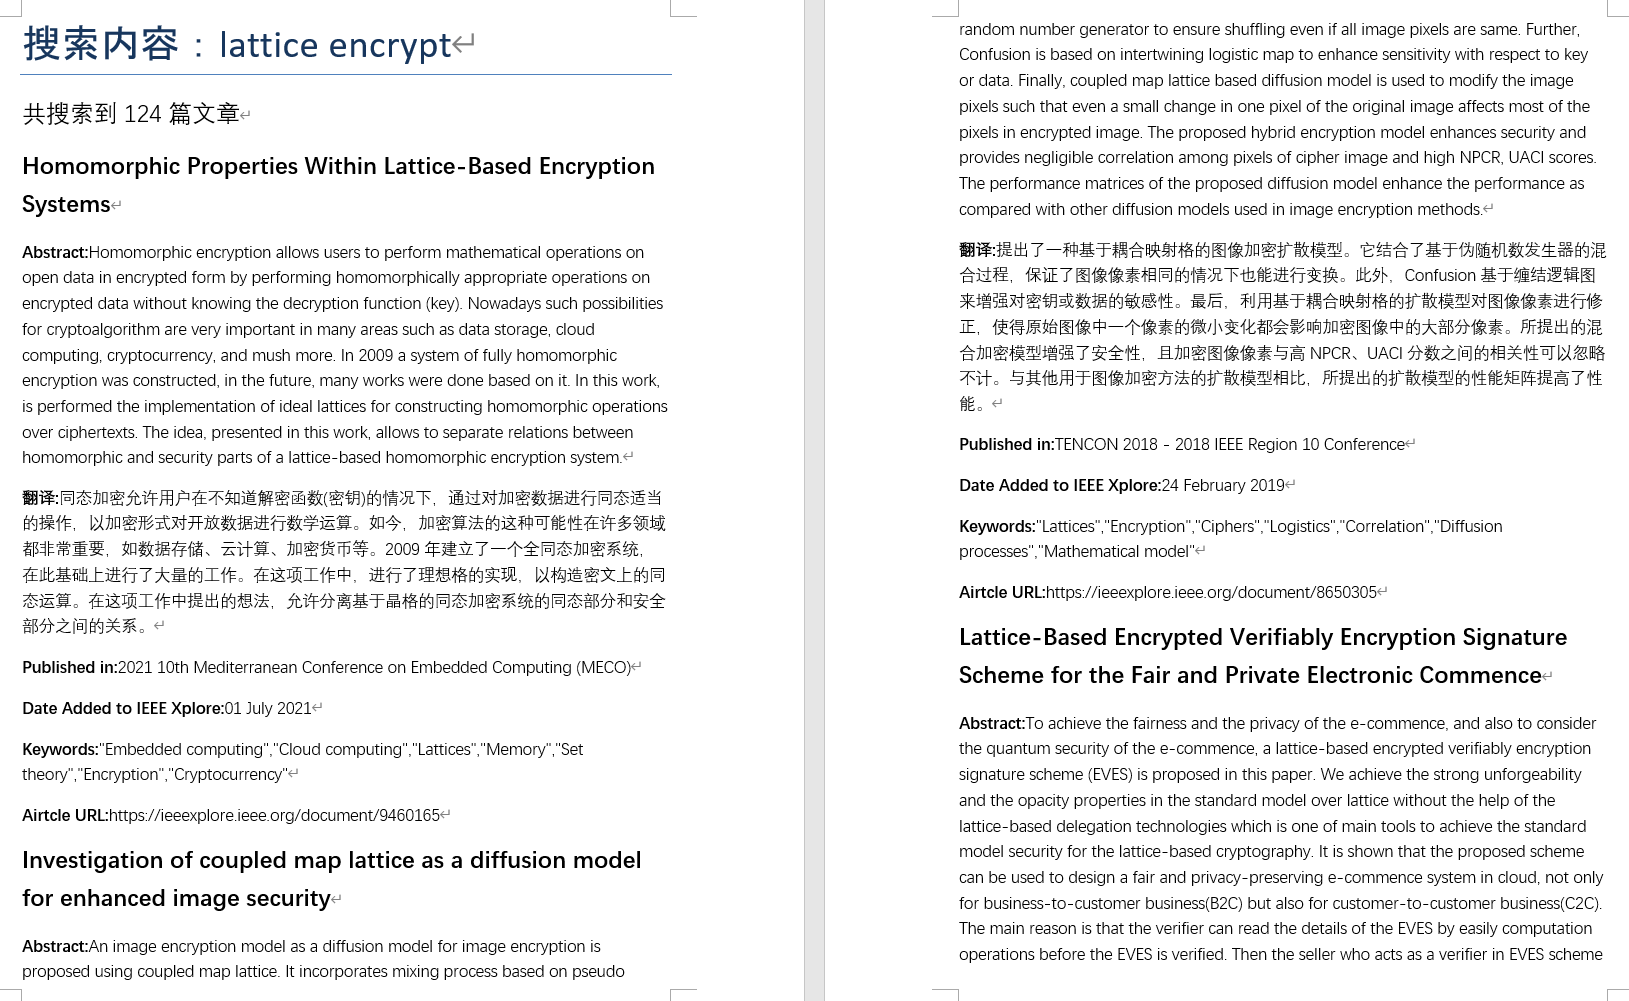
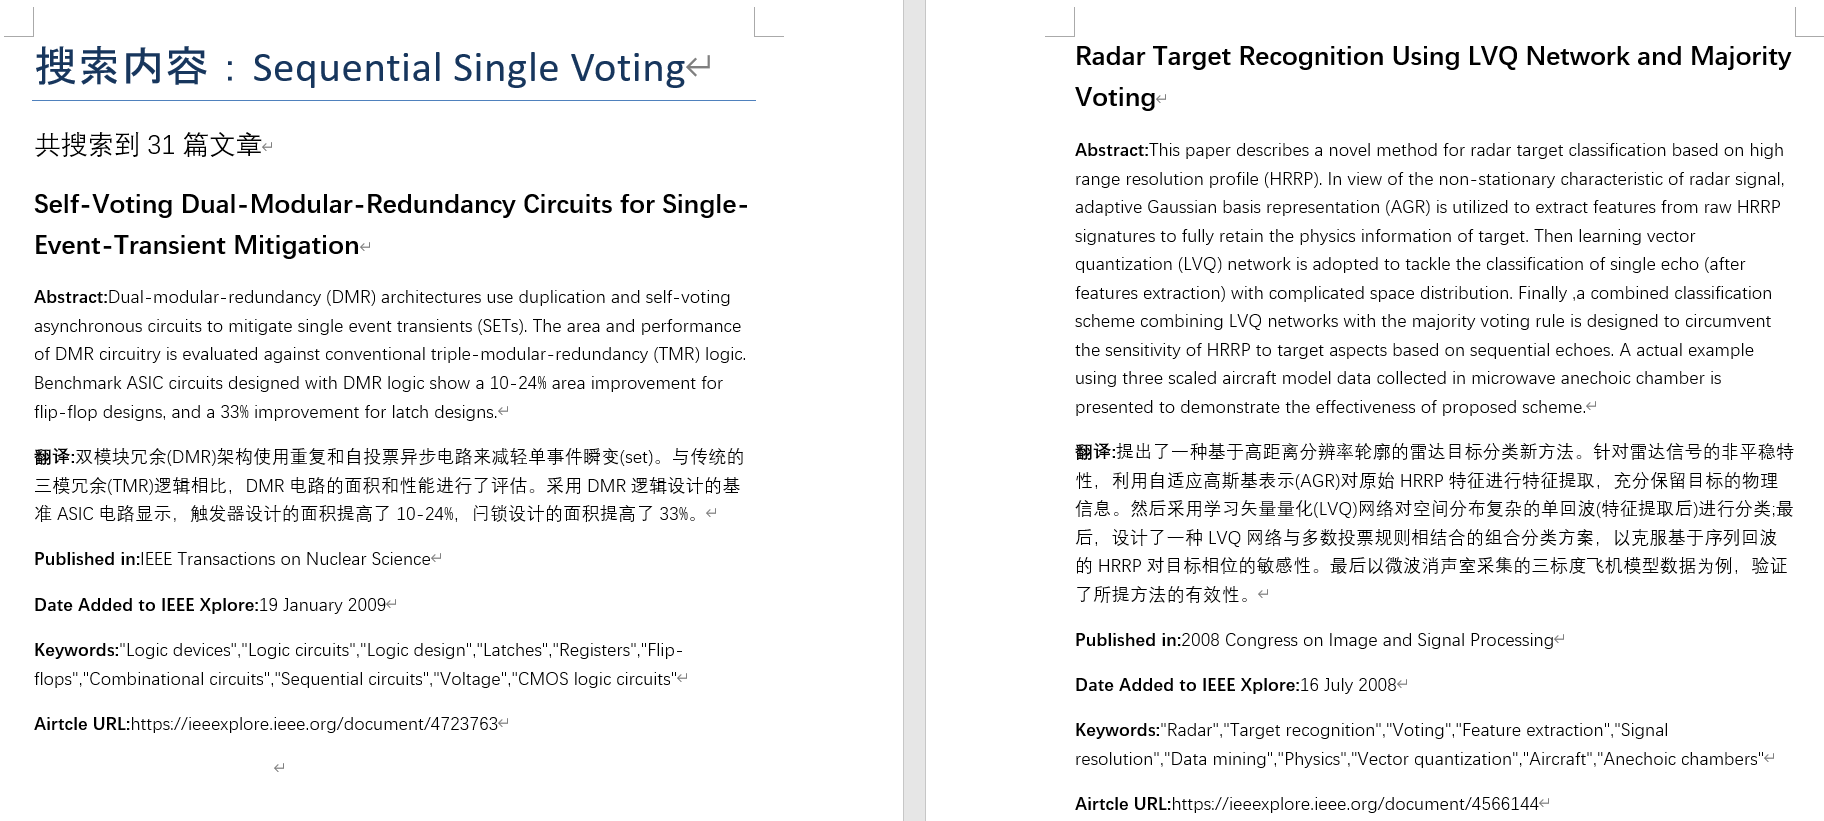
Add files via upload

diff --git a/main.py b/main.py
@@ -92,5 +92,7 @@ for airtcle_number in Airtcle_List:
     run = p.add_run('https://ieeexplore.ieee.org/document/' + str(airtcle_number))
     run.bold = False
 
+    document.add_page_break()
+
 document.save(searchword.replace(" ", "_") + '.docx')
 print('\n', 'Finish!')
